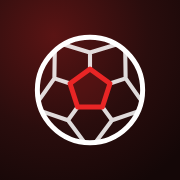
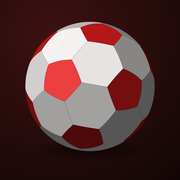
Add files via upload

diff --git a/index.html b/index.html
@@ -39,9 +39,7 @@
   .logo span { color: var(--white); }
   .logo-mark {
     display:inline-block; width:34px; height:34px; vertical-align:-6px; margin-right:9px;
-    border-radius:9px; border:1px solid #ffffff1f;
-    background: radial-gradient(circle at 30% 20%, #5a1414 0%, #2a0d0d 55%, #140707 100%);
-    box-shadow: 0 2px 8px #0006;
+    border-radius:9px; border:1px solid #ffffff1f; box-shadow: 0 2px 8px #0006;
   }
   .screen { display: none; }
   .screen.active { display: block; }
@@ -632,7 +630,7 @@
 <!-- ═══════════════ SCREEN: SETUP ═══════════════ -->
 <div id="screenSquad" class="screen active">
   <header>
-    <div class="logo"><svg class="logo-mark" viewBox="0 0 24 24" aria-hidden="true"><g transform="translate(2.4 2.4) scale(0.8)" fill="none" stroke-linecap="round" stroke-linejoin="round"><circle cx="12" cy="12" r="9" stroke="#fff" stroke-width="1.2"/><path d="M12.00 8.40L12.00 5.60M12.00 5.60L7.50 4.21M12.00 5.60L16.50 4.21M15.42 10.89L18.09 10.02M18.09 10.02L18.02 5.31M18.09 10.02L20.80 13.87M14.12 14.91L15.76 17.18M15.76 17.18L20.22 15.66M15.76 17.18L12.94 20.95M9.88 14.91L8.24 17.18M8.24 17.18L11.06 20.95M8.24 17.18L3.78 15.66M8.58 10.89L5.91 10.02M5.91 10.02L3.20 13.87M5.91 10.02L5.98 5.31" stroke="#fff" stroke-width="0.95" opacity="0.85"/><path d="M12.00 8.40L15.42 10.89L14.12 14.91L9.88 14.91L8.58 10.89Z" stroke="#e82525" stroke-width="1.2" fill="#e8252522"/></g></svg>Sub<span>Tracker</span></div>
+    <div class="logo"><img class="logo-mark" src="icon-192.png" alt="">Sub<span>Tracker</span></div>
     <div style="font-family:'Bebas Neue',sans-serif;font-size:1rem;letter-spacing:2px;color:var(--gray)">New Match</div>
   </header>
   <div class="wrap">
@@ -674,7 +672,7 @@
   </div>
 
   <div class="match-header">
-    <div class="logo"><svg class="logo-mark" viewBox="0 0 24 24" aria-hidden="true"><g transform="translate(2.4 2.4) scale(0.8)" fill="none" stroke-linecap="round" stroke-linejoin="round"><circle cx="12" cy="12" r="9" stroke="#fff" stroke-width="1.2"/><path d="M12.00 8.40L12.00 5.60M12.00 5.60L7.50 4.21M12.00 5.60L16.50 4.21M15.42 10.89L18.09 10.02M18.09 10.02L18.02 5.31M18.09 10.02L20.80 13.87M14.12 14.91L15.76 17.18M15.76 17.18L20.22 15.66M15.76 17.18L12.94 20.95M9.88 14.91L8.24 17.18M8.24 17.18L11.06 20.95M8.24 17.18L3.78 15.66M8.58 10.89L5.91 10.02M5.91 10.02L3.20 13.87M5.91 10.02L5.98 5.31" stroke="#fff" stroke-width="0.95" opacity="0.85"/><path d="M12.00 8.40L15.42 10.89L14.12 14.91L9.88 14.91L8.58 10.89Z" stroke="#e82525" stroke-width="1.2" fill="#e8252522"/></g></svg>Sub<span>Tracker</span></div>
+    <div class="logo"><img class="logo-mark" src="icon-192.png" alt="">Sub<span>Tracker</span></div>
     <div style="font-family:'Bebas Neue',sans-serif;font-size:1rem;letter-spacing:2px;color:var(--gray)">Match</div>
   </div>
 
@@ -757,7 +755,7 @@
 <!-- ═══════════════ SCREEN: HISTORY ═══════════════ -->
 <div id="screenHistory" class="screen">
   <header>
-    <div class="logo"><svg class="logo-mark" viewBox="0 0 24 24" aria-hidden="true"><g transform="translate(2.4 2.4) scale(0.8)" fill="none" stroke-linecap="round" stroke-linejoin="round"><circle cx="12" cy="12" r="9" stroke="#fff" stroke-width="1.2"/><path d="M12.00 8.40L12.00 5.60M12.00 5.60L7.50 4.21M12.00 5.60L16.50 4.21M15.42 10.89L18.09 10.02M18.09 10.02L18.02 5.31M18.09 10.02L20.80 13.87M14.12 14.91L15.76 17.18M15.76 17.18L20.22 15.66M15.76 17.18L12.94 20.95M9.88 14.91L8.24 17.18M8.24 17.18L11.06 20.95M8.24 17.18L3.78 15.66M8.58 10.89L5.91 10.02M5.91 10.02L3.20 13.87M5.91 10.02L5.98 5.31" stroke="#fff" stroke-width="0.95" opacity="0.85"/><path d="M12.00 8.40L15.42 10.89L14.12 14.91L9.88 14.91L8.58 10.89Z" stroke="#e82525" stroke-width="1.2" fill="#e8252522"/></g></svg>Sub<span>Tracker</span></div>
+    <div class="logo"><img class="logo-mark" src="icon-192.png" alt="">Sub<span>Tracker</span></div>
     <div style="font-family:'Bebas Neue',sans-serif;font-size:1rem;letter-spacing:2px;color:var(--gray)">Season History</div>
   </header>
   <input type="file" id="importFileInput" accept=".json" style="display:none" onchange="importData(event)">
@@ -822,7 +820,7 @@
 <!-- ═══════════════ SCREEN: TEAMS ═══════════════ -->
 <div id="screenTeams" class="screen">
   <header>
-    <div class="logo"><svg class="logo-mark" viewBox="0 0 24 24" aria-hidden="true"><g transform="translate(2.4 2.4) scale(0.8)" fill="none" stroke-linecap="round" stroke-linejoin="round"><circle cx="12" cy="12" r="9" stroke="#fff" stroke-width="1.2"/><path d="M12.00 8.40L12.00 5.60M12.00 5.60L7.50 4.21M12.00 5.60L16.50 4.21M15.42 10.89L18.09 10.02M18.09 10.02L18.02 5.31M18.09 10.02L20.80 13.87M14.12 14.91L15.76 17.18M15.76 17.18L20.22 15.66M15.76 17.18L12.94 20.95M9.88 14.91L8.24 17.18M8.24 17.18L11.06 20.95M8.24 17.18L3.78 15.66M8.58 10.89L5.91 10.02M5.91 10.02L3.20 13.87M5.91 10.02L5.98 5.31" stroke="#fff" stroke-width="0.95" opacity="0.85"/><path d="M12.00 8.40L15.42 10.89L14.12 14.91L9.88 14.91L8.58 10.89Z" stroke="#e82525" stroke-width="1.2" fill="#e8252522"/></g></svg>Sub<span>Tracker</span></div>
+    <div class="logo"><img class="logo-mark" src="icon-192.png" alt="">Sub<span>Tracker</span></div>
     <div style="font-family:'Bebas Neue',sans-serif;font-size:1rem;letter-spacing:2px;color:var(--gray)">My Teams</div>
   </header>
   <div class="wrap">

diff --git a/sw.js b/sw.js
@@ -1,6 +1,6 @@
 // SubTracker service worker
 // Bump VERSION whenever you upload a new version of the app.
-var VERSION = 'v2';
+var VERSION = 'v3';
 var CACHE = 'subtracker-' + VERSION;
 var APP_SHELL = [
   './',
